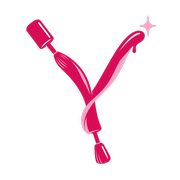
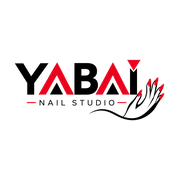
feat: Yabai Nail Studio wordmark across site and admin
- New wordmark in the header, footer, admin sidebar and admin login, with a
  light-lettered variant swapped in under the dark theme.
- New favicon, app icon and Apple touch icon.
- "Nail Atelier" becomes "Nail Studio" in the page title and home tagline.

Claude-Session: https://claude.ai/code/session_01N5fuEHkdjeLuFBw7ZwFowd

Changed region(s): [[0.0833, 0.0833, 0.9167, 0.9167], [0.1389, 0.5556, 0.3611, 0.6111]]

diff --git a/src/components/brand/BrandMark.tsx b/src/components/brand/BrandMark.tsx
@@ -4,16 +4,31 @@ type BrandMarkProps = {
   readonly className?: string;
 };
 
-/** The shared YABAI nail-brush mark used across customer and admin surfaces. */
-export function BrandMark({ className = "size-10" }: BrandMarkProps) {
+/**
+ * The YABAI Nail Studio wordmark used across customer and admin surfaces. Its
+ * lettering is black, so globals.css swaps in a light-lettered twin under the
+ * dark theme (`.brand-mark-light` / `.brand-mark-dark`).
+ */
+export function BrandMark({ className = "h-10" }: BrandMarkProps) {
+  const imageClassName = `w-auto shrink-0 object-contain ${className}`;
   return (
-    <Image
-      src="/brand/yabai-mark.png"
-      alt=""
-      aria-hidden="true"
-      width={96}
-      height={96}
-      className={`shrink-0 object-contain ${className}`}
-    />
+    <>
+      <Image
+        src="/brand/yabai-mark.png"
+        alt=""
+        aria-hidden="true"
+        width={800}
+        height={326}
+        className={`brand-mark-light ${imageClassName}`}
+      />
+      <Image
+        src="/brand/yabai-mark-dark.png"
+        alt=""
+        aria-hidden="true"
+        width={800}
+        height={326}
+        className={`brand-mark-dark ${imageClassName}`}
+      />
+    </>
   );
 }

diff --git a/src/components/layouts/ShellFooter/component.tsx b/src/components/layouts/ShellFooter/component.tsx
@@ -9,7 +9,6 @@ export type ShellFooterLink = {
 
 export type ShellFooterData = {
   readonly brand: string;
-  readonly tagline: string;
   readonly description: string;
   readonly navigationLabel: string;
   readonly links: ReadonlyArray<ShellFooterLink>;
@@ -37,15 +36,7 @@ export const _ShellFooter = ({ props }: ShellFooterProps) => (
           className="inline-flex min-h-11 items-center gap-3 rounded-lg focus-visible:outline-none focus-visible:ring-2 focus-visible:ring-focus focus-visible:ring-offset-2 focus-visible:ring-offset-background"
           aria-label={`${props.brand} — Trang chủ`}
         >
-          <BrandMark className="size-11" />
-          <span>
-            <span className="font-display block text-base font-semibold tracking-[0.18em] text-foreground">
-              {props.brand}
-            </span>
-            <span className="mt-1 block text-xs text-muted">
-              {props.tagline}
-            </span>
-          </span>
+          <BrandMark className="h-14" />
         </Link>
         <p className="mt-4 text-sm leading-6 text-muted">
           {props.description}

diff --git a/src/components/layouts/ShellNav/component.tsx b/src/components/layouts/ShellNav/component.tsx
@@ -36,7 +36,6 @@ export type ShellNavAccount =
 /** Resolved copy and state drawn by the navigation shell. */
 export type ShellNavData = {
   readonly brand: string;
-  readonly tagline: string;
   readonly routes: ReadonlyArray<ShellNavRoute>;
   readonly bookingHref: string;
   readonly bookingLabel: string;
@@ -85,15 +84,7 @@ export const _ShellNav = ({ props, on }: ShellNavProps) => (
         className="flex min-h-11 min-w-0 items-center gap-3 rounded-lg focus-visible:outline-none focus-visible:ring-2 focus-visible:ring-focus focus-visible:ring-offset-2 focus-visible:ring-offset-background"
         aria-label={`${props.brand} — Trang chủ`}
       >
-        <BrandMark className="size-11" />
-        <span className="min-w-0 leading-none">
-          <span className="font-display block truncate text-base font-semibold tracking-[0.18em] text-foreground">
-            {props.brand}
-          </span>
-          <span className="mt-1 block truncate text-xs text-muted">
-            {props.tagline}
-          </span>
-        </span>
+        <BrandMark className="h-11" />
       </Link>
 
       <nav

diff --git a/src/components/pages/admin/AdminLogin/component.tsx b/src/components/pages/admin/AdminLogin/component.tsx
@@ -67,15 +67,7 @@ export function AdminLogin() {
     <div className="admin-shell grid min-h-screen place-items-center bg-admin-canvas px-4 py-10 text-admin-ink">
       <main className="w-full max-w-sm rounded-xl border border-admin-border bg-admin-surface p-6 shadow-sm">
         <div className="flex items-center gap-3">
-          <BrandMark className="size-12" />
-          <span className="leading-none">
-            <span className="font-display block text-lg font-semibold tracking-[0.16em] text-admin-ink">
-              YABAI
-            </span>
-            <span className="mt-1 block text-[0.625rem] font-bold tracking-[0.2em] text-admin-accent">
-              NAIL ATELIER
-            </span>
-          </span>
+          <BrandMark className="h-16" />
         </div>
         <h1 className="mt-5 text-xl font-bold text-admin-ink">{t("heading")}</h1>
         <p className="mt-1 text-sm leading-6 text-admin-muted">

diff --git a/src/components/layouts/AdminShell/navigation.tsx b/src/components/layouts/AdminShell/navigation.tsx
@@ -18,15 +18,7 @@ export function AdminBrand() {
       aria-label={t("brand")}
       className="flex min-h-16 items-center gap-3 rounded-lg px-2 focus-visible:outline-2 focus-visible:outline-offset-2 focus-visible:outline-admin-accent"
     >
-      <BrandMark className="size-12" />
-      <span className="leading-none">
-        <span className="font-display block text-lg font-semibold tracking-[0.16em] text-admin-ink">
-          YABAI
-        </span>
-        <span className="mt-1 block text-[0.625rem] font-bold tracking-[0.2em] text-admin-accent">
-          NAIL ATELIER
-        </span>
-      </span>
+      <BrandMark className="h-14" />
     </Link>
   );
 }

diff --git a/src/components/pages/client/HomePage/component.tsx b/src/components/pages/client/HomePage/component.tsx
@@ -6,7 +6,7 @@ export const _HomePage = () => (
     <section className="mx-auto grid w-full max-w-7xl flex-1 items-center gap-12 px-4 py-14 sm:px-6 lg:grid-cols-[0.9fr_1.1fr] lg:px-8 lg:py-20">
       <div className="max-w-xl">
         <p className="text-sm font-bold uppercase tracking-[0.18em] text-accent-soft-foreground">
-          Nail atelier · Sài Gòn
+          Nail studio · Sài Gòn
         </p>
         <h1 className="font-display mt-5 text-6xl font-medium italic leading-[0.94] tracking-tight text-foreground sm:text-7xl lg:text-8xl">
           Dịu dàng,

diff --git a/src/app/layout.tsx b/src/app/layout.tsx
@@ -20,9 +20,9 @@ const playfairDisplay = Playfair_Display({
 });
 
 export const metadata: Metadata = {
-  title: "YABAI Nail Atelier",
+  title: "YABAI Nail Studio",
   description: "Chăm sóc, thiết kế móng và đặt lịch tại YABAI.",
-  applicationName: "YABAI Nail Atelier",
+  applicationName: "YABAI Nail Studio",
 };
 
 export default function RootLayout({ children }: LayoutProps<"/">) {

diff --git a/src/app/globals.css b/src/app/globals.css
@@ -113,6 +113,18 @@
   --scrollbar-thumb: #765161;
 }
 
+/* BrandMark: the wordmark's black lettering swaps to its light twin when dark. */
+.brand-mark-dark,
+.dark .brand-mark-light,
+[data-theme="dark"] .brand-mark-light {
+  display: none;
+}
+
+.dark .brand-mark-dark,
+[data-theme="dark"] .brand-mark-dark {
+  display: block;
+}
+
 html {
   scroll-padding-top: 4rem;
 }

diff --git a/src/components/layouts/ShellFooter/index.tsx b/src/components/layouts/ShellFooter/index.tsx
@@ -12,7 +12,6 @@ export const ShellFooter = () => (
   <_ShellFooter
     props={{
       brand: "YABAI",
-      tagline: "Nail atelier · Sài Gòn",
       description:
         "Một khoảng dừng nhẹ nhàng dành cho đôi tay, với dịch vụ chăm sóc và thiết kế móng chỉn chu.",
       navigationLabel: "Khám phá",

diff --git a/src/components/layouts/ShellNav/index.tsx b/src/components/layouts/ShellNav/index.tsx
@@ -91,7 +91,6 @@ export const ShellNav = () => {
       <_ShellNav
         props={{
           brand: "YABAI",
-          tagline: "Nail atelier · Sài Gòn",
           routes,
           bookingHref: BOOKING_HREF,
           bookingLabel: "Đặt lịch",
